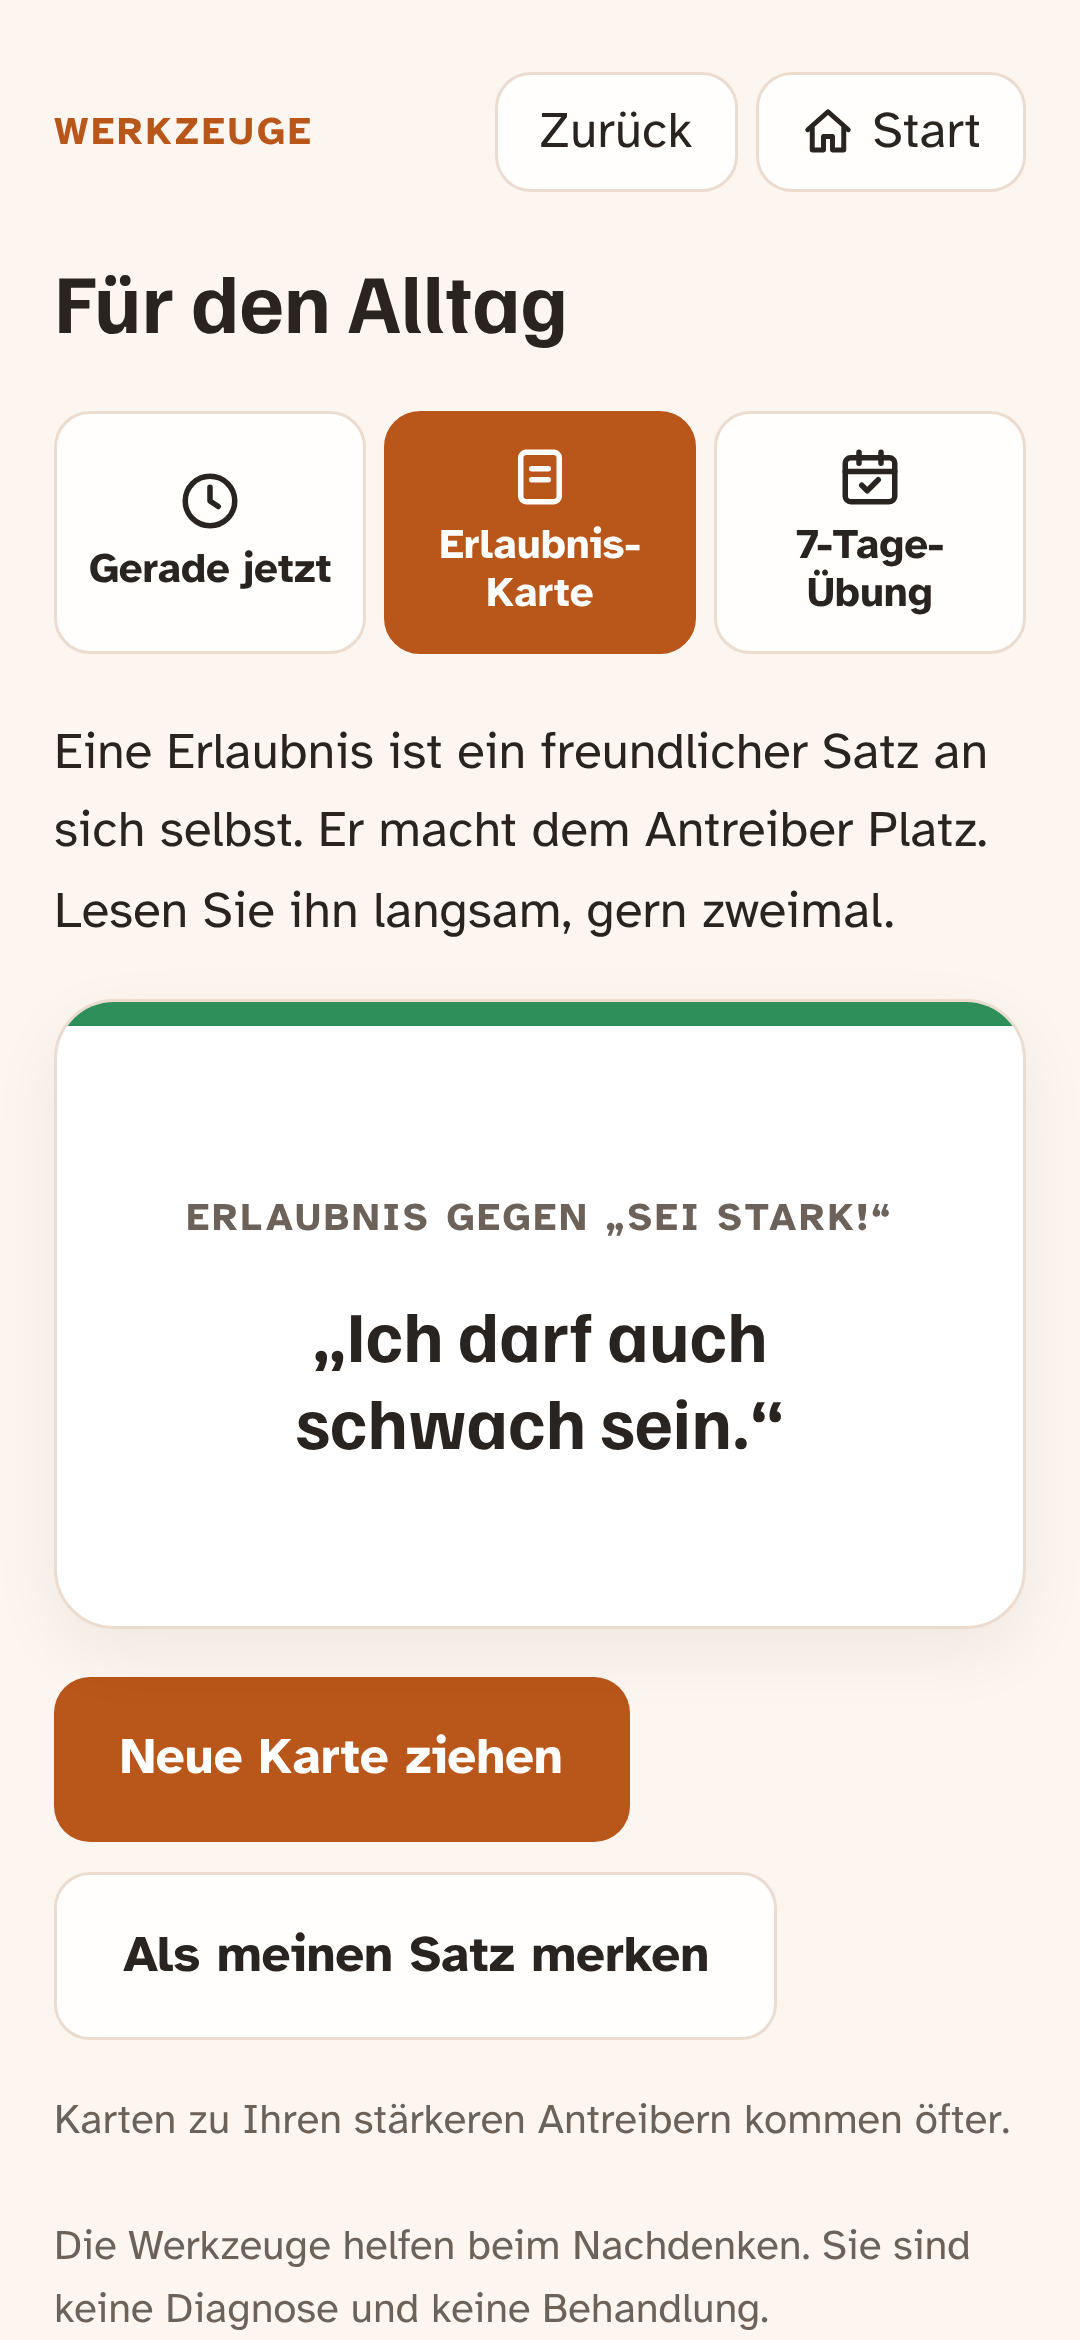
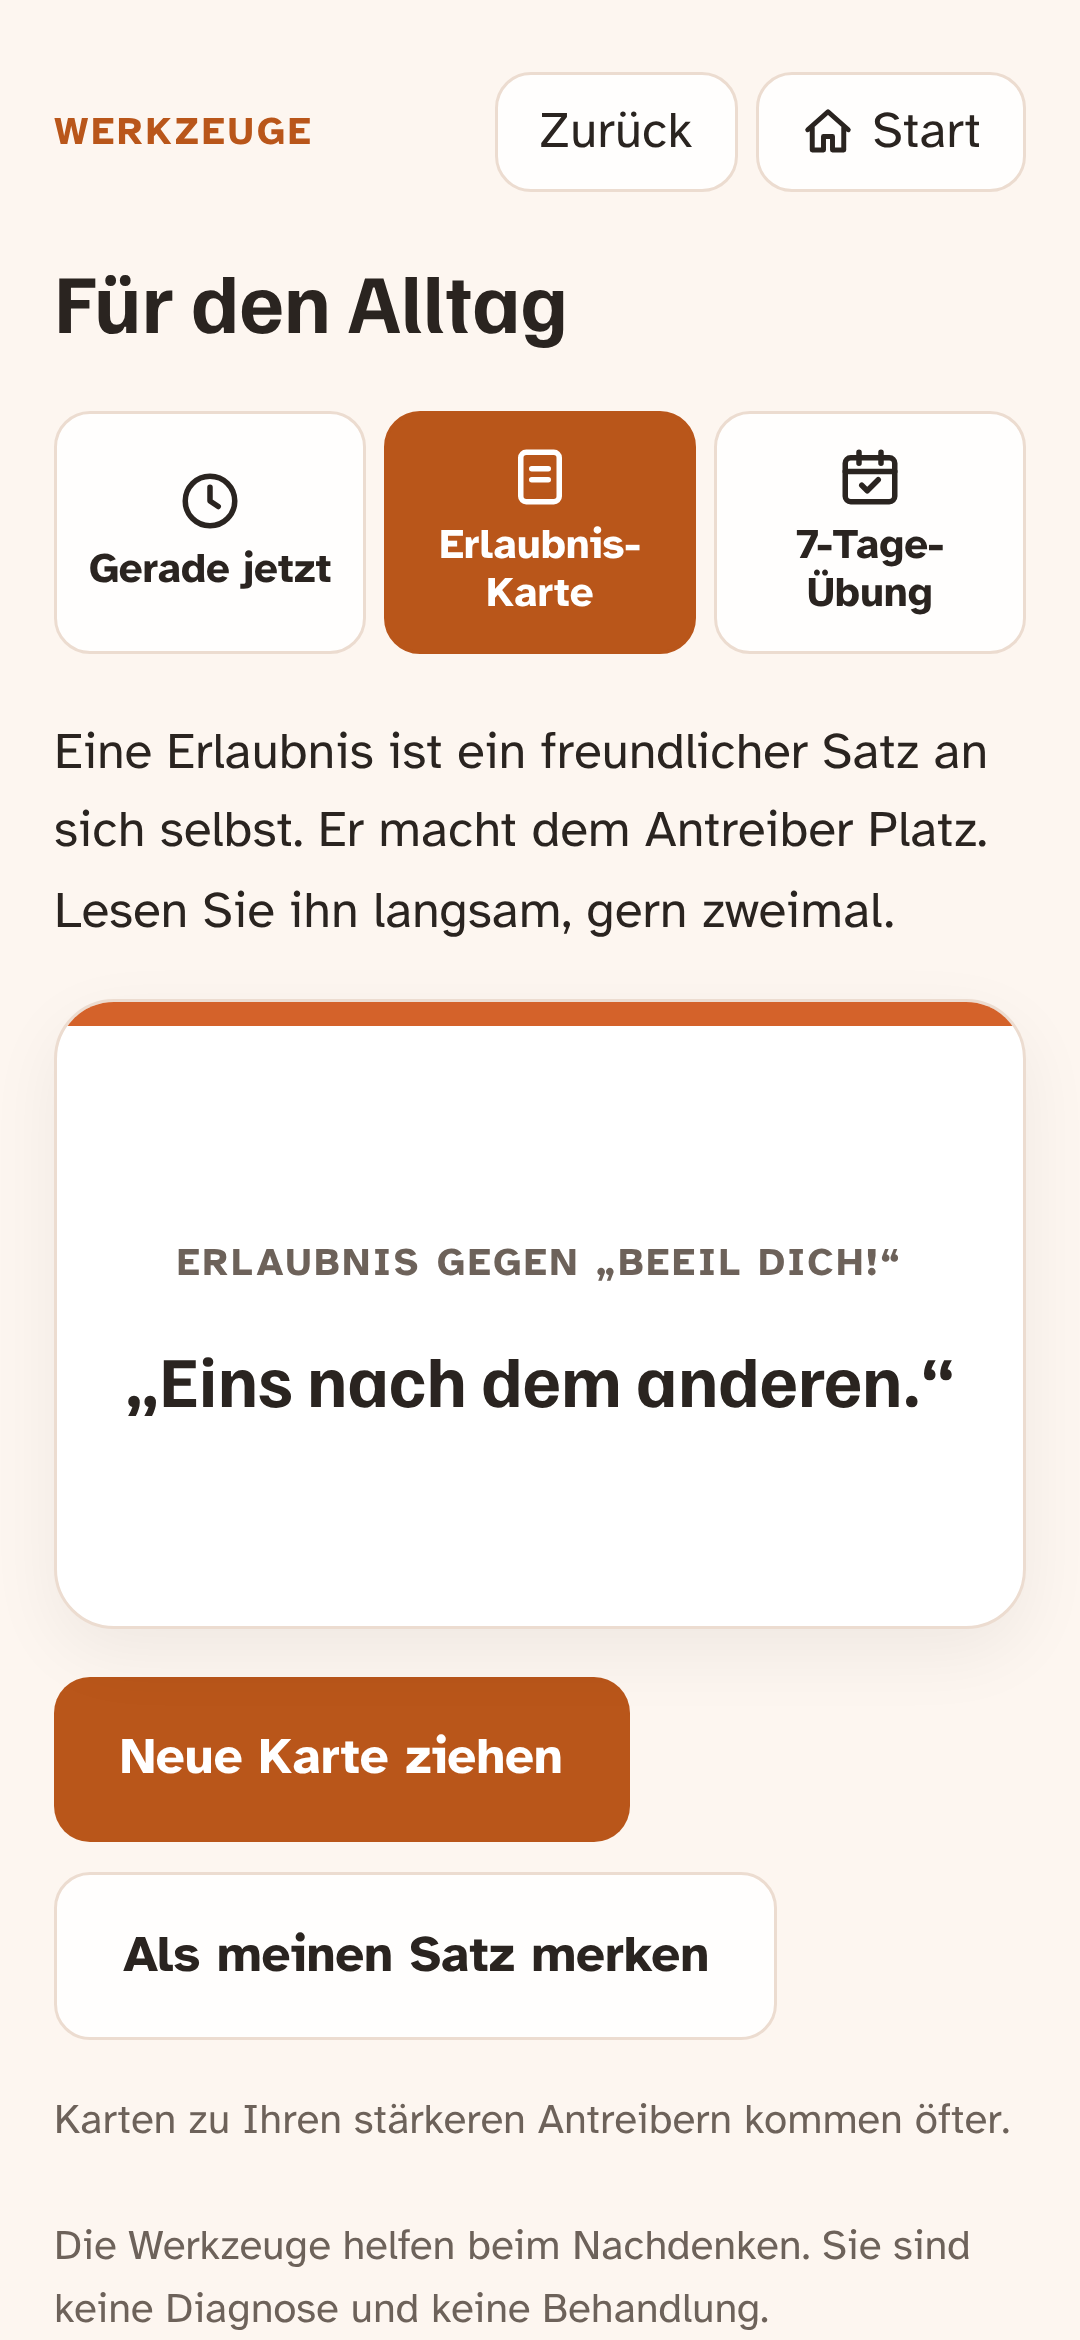
Knopf „Nach Neuerungen suchen“ mit Rückmeldung
- Startseite (nur in der App): prüft sofort und sagt, ob die Version
  aktuell ist, eine neue bereitliegt oder keine Verbindung besteht
- „Dieser Stand startet“ wird gleich am Anfang vermerkt, damit ein
  später Fehler eine geladene Version nicht als unbrauchbar abstempelt
- Eine einmal als unbrauchbar vermerkte Version darf von Hand erneut
  geladen werden

Claude-Session: https://claude.ai/code/session_01XfaHrWKfCnrN5ZpBhepyRq

Changed region(s): [[0.1222, 0.4991, 0.8556, 0.6239], [0.0611, 0.4056, 0.9167, 0.4368], [0.8556, 0.5615, 0.8861, 0.5927]]

diff --git a/src/app.html b/src/app.html
@@ -267,7 +267,8 @@ button.chip[aria-expanded="true"]{border-color:var(--accent);box-shadow:inset 0 
       <p>Auch ohne Test: Prüfen Sie, was Sie gerade antreibt. Ziehen Sie eine Erlaubnis-Karte. Oder üben Sie sieben Tage lang.</p>
       <div class="row"><button class="btn ghost" data-tool="now">Werkzeuge öffnen</button></div>
     </div>
-    <p class="foot"><button data-legal>Datenschutz und Impressum</button><a href="https://mayoka.at" target="_blank" rel="noopener">mayoka.at</a></p>
+    <p class="foot"><button data-legal>Datenschutz und Impressum</button><a href="https://mayoka.at" target="_blank" rel="noopener">mayoka.at</a><button id="checkNow" hidden>Nach Neuerungen suchen</button></p>
+    <p class="hint" id="checkMsg" aria-live="polite" hidden></p>
   </section>
 
   <!-- FRAGEN -->
@@ -469,6 +470,7 @@ const Share = isNative ? cap.registerPlugin("Share") : null;
 const App = isNative ? cap.registerPlugin("App") : null;
 
 const $ = id => document.getElementById(id);
+try{ localStorage.setItem("ab-boot-ok", window.__AB_RUNNING || "web"); }catch(e){}   // dieser Stand startet (für den Lader)
 const esc = t => String(t).replace(/[&<>"]/g, c=>({"&":"&amp;","<":"&lt;",">":"&gt;",'"':"&quot;"}[c]));
 let answers = new Array(Q.length).fill(0), idx = 0, view = "start", prevView = "start";
 function mkStore(KEY, fallback){ return {
@@ -834,7 +836,6 @@ refreshStart();
    Sparsam: höchstens alle 6 Stunden nachsehen, nur beim Öffnen. */
 const RUNNING = window.__AB_RUNNING || "web", SHELL = window.__AB_SHELL || 0, UPD = window.__AB_UPDATE || null;
 const raw = { get(k){ try{ return localStorage.getItem(k); }catch(e){ return null; } }, set(k,v){ try{ v===null?localStorage.removeItem(k):localStorage.setItem(k,v); }catch(e){} } };
-raw.set("ab-boot-ok", RUNNING);   // dieser Stand startet sauber
 function bar(text, btn, fn){
   $("updateText").textContent = text; $("updateBtn").textContent = btn;
   $("updateBtn").onclick = fn; $("updateLater").onclick = ()=>{ $("update").hidden = true; };
@@ -842,23 +843,38 @@ function bar(text, btn, fn){
 }
 function openApk(url){ window.location.href = url; }   // Capacitor öffnet fremde Adressen im Browser: Download, dann Installation
 async function checkUpdate(force){
-  if (!isNative || !UPD || !UPD.base) return;
+  if (!isNative || !UPD || !UPD.base) return "web";
   const last = +(raw.get("ab-check") || 0);
-  if (!force && Date.now() - last < 6*3600*1000) return;
+  if (!force && Date.now() - last < 6*3600*1000) return "warten";
   raw.set("ab-check", String(Date.now()));
   try{
     const v = await (await fetch(UPD.base + "version.json?t=" + Date.now(), {cache:"no-store"})).json();
     const apk = v.apkUrl || UPD.apk;
     if ((v.minShell && v.minShell > SHELL) || (v.shell && v.shell > SHELL)){
       bar("Eine neue Version der App ist da. Ihre Ergebnisse bleiben erhalten.", "Jetzt aktualisieren", ()=>openApk(apk));
-      if (v.minShell && v.minShell > SHELL) return;
+      if (v.minShell && v.minShell > SHELL) return "app";
     }
-    if (!v.version || v.version === RUNNING || v.version === raw.get("ab-bundle-v") || v.version === raw.get("ab-bundle-bad")) return;
+    if (!v.version || v.version === RUNNING) return "aktuell";
+    if (v.version === raw.get("ab-bundle-v")){ if ($("update").hidden && view !== "quiz") bar("Eine neue Version ist bereit.", "Jetzt neu laden", ()=>location.reload()); return "bereit"; }
+    if (v.version === raw.get("ab-bundle-bad") && !force) return "aktuell";   // ist schon einmal nicht sauber gestartet; von Hand darf man es noch einmal versuchen
     const html = await (await fetch(UPD.base + "app.html?v=" + v.version, {cache:"no-store"})).text();
-    if (!html.includes('id="quiz"') || html.length < 5000) return;   // unvollständiger Download
-    raw.set("ab-bundle", html); raw.set("ab-bundle-v", v.version); raw.set("ab-bundle-base", window.__AB_BUILTIN || "");
+    if (!html.includes('id="quiz"') || html.length < 5000) return "fehler: Download unvollständig";
+    raw.set("ab-bundle", html); raw.set("ab-bundle-v", v.version); raw.set("ab-bundle-base", window.__AB_BUILTIN || ""); raw.set("ab-bundle-bad", null);
     if ($("update").hidden && view !== "quiz") bar("Eine neue Version ist bereit.", "Jetzt neu laden", ()=>location.reload());
-  }catch(e){ /* kein Internet: beim nächsten Öffnen wieder */ }
+    return "bereit";
+  }catch(e){ return "fehler: " + ((e && e.message) || e); }   // kein Internet o. Ä.: beim nächsten Öffnen wieder
+}
+// Knopf „Nach Neuerungen suchen“ (nur in der App): prüft sofort und sagt, was Sache ist
+if (isNative && UPD && UPD.base){
+  $("checkNow").hidden = false;
+  $("checkNow").onclick = async ()=>{
+    const m = $("checkMsg"); m.hidden = false; m.textContent = "Suche …";
+    const r = await checkUpdate(true);
+    m.textContent = r === "aktuell" ? `Sie haben die neueste Version (Inhalt ${String(RUNNING).slice(0,6)}).`
+      : r === "bereit" ? "Neue Version geladen. Tippen Sie unten auf „Jetzt neu laden“."
+      : r === "app" ? "Eine neue Version der App ist da. Tippen Sie unten auf „Jetzt aktualisieren“."
+      : "Prüfen hat nicht geklappt. Besteht eine Internet-Verbindung? (" + r.replace(/^fehler: /,"") + ")";
+  };
 }
 (async ()=>{
   let name = "";
